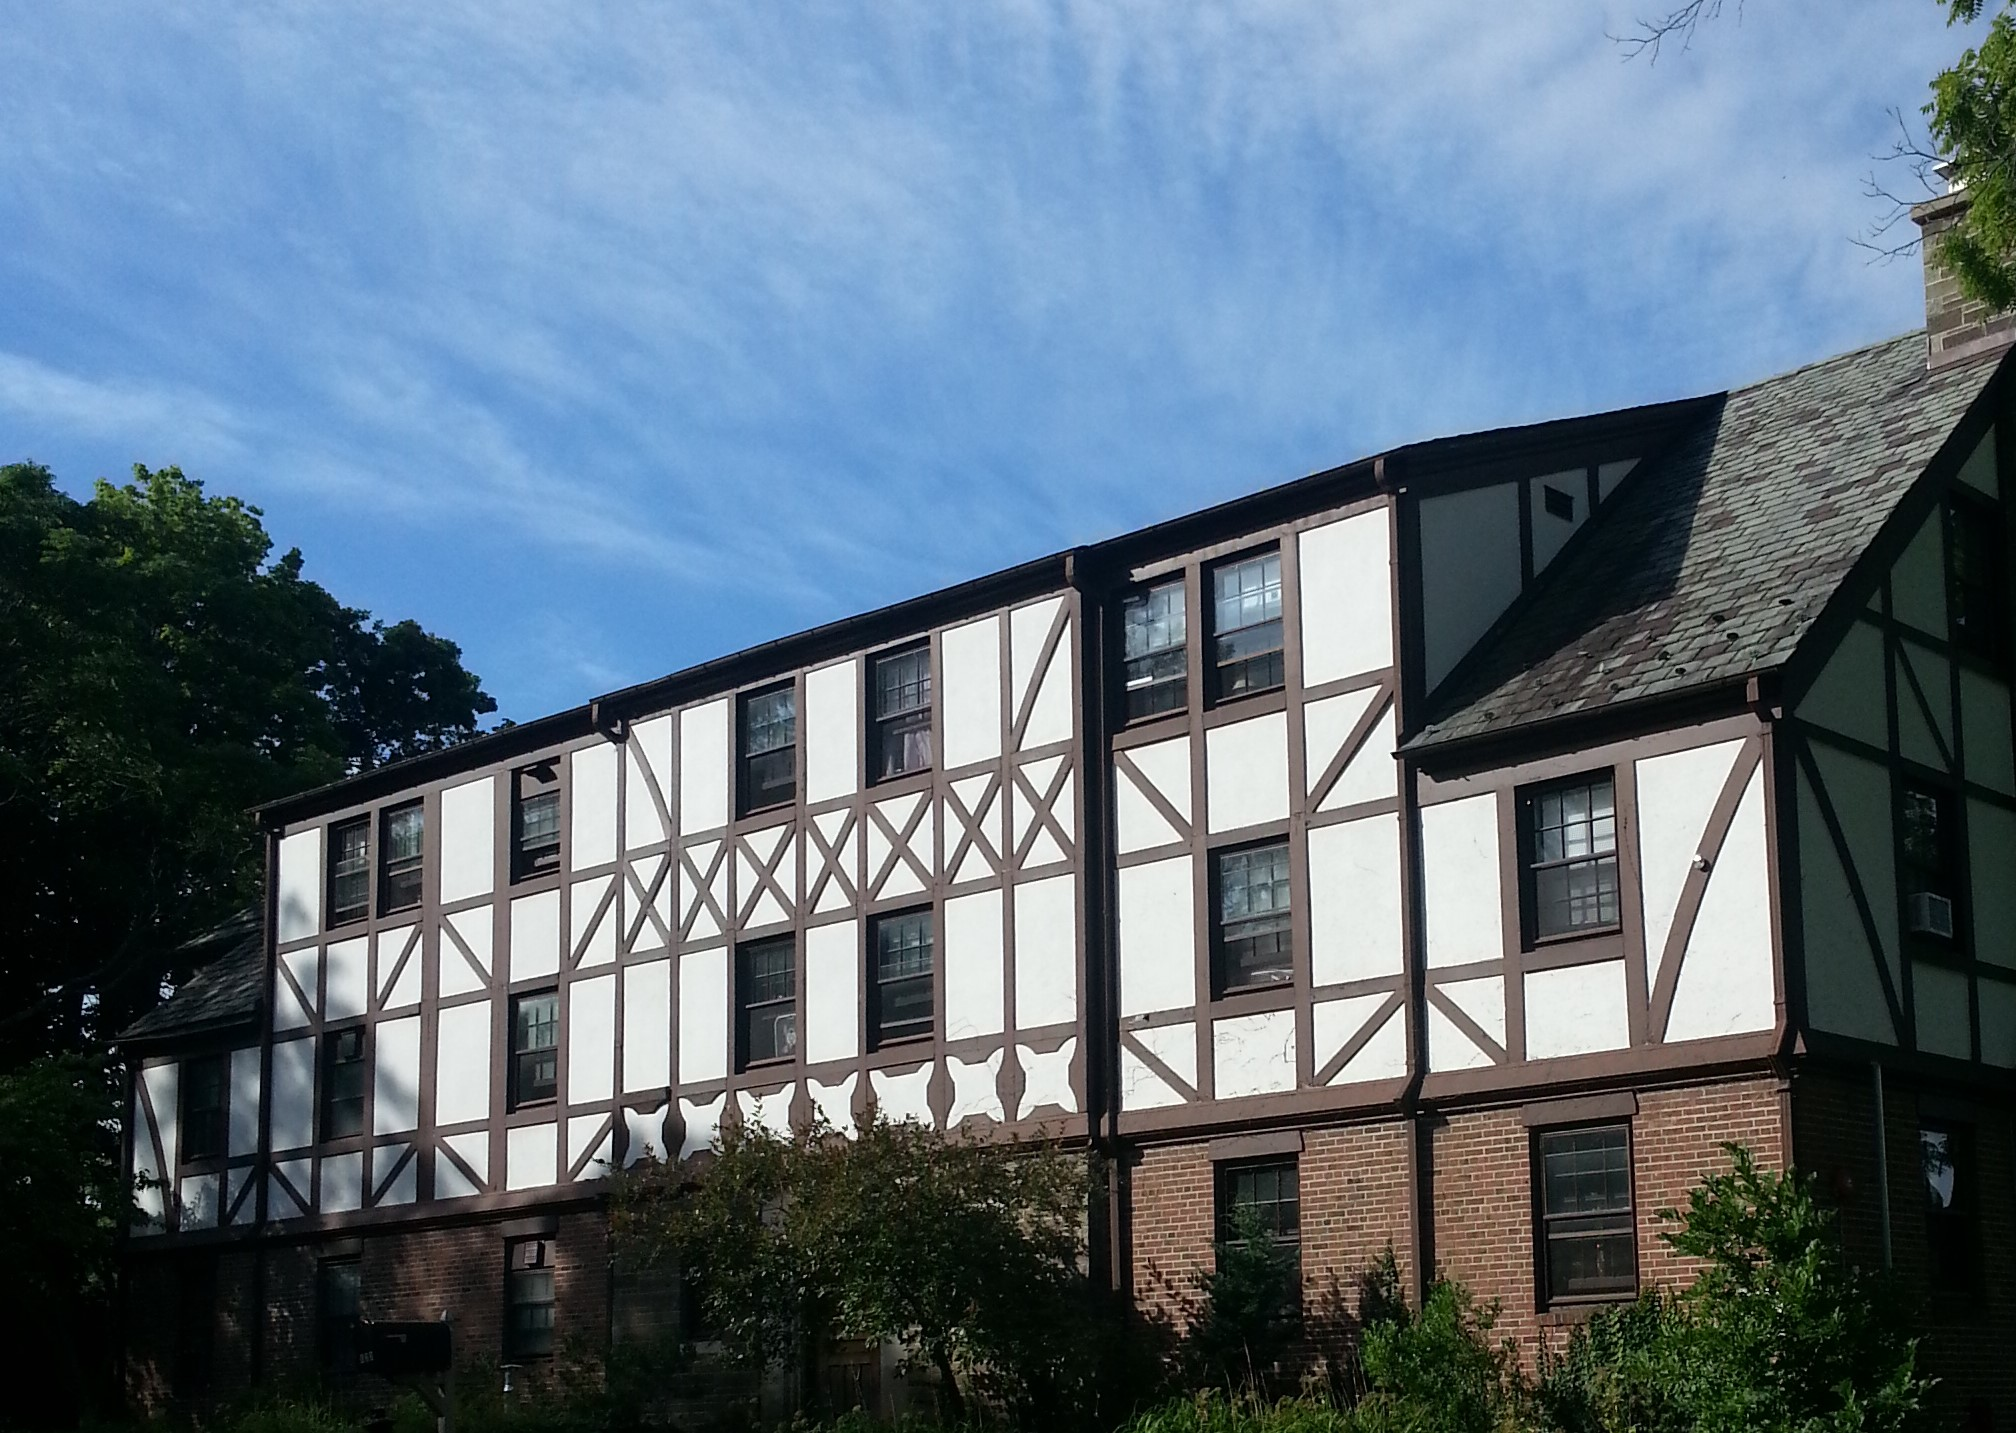
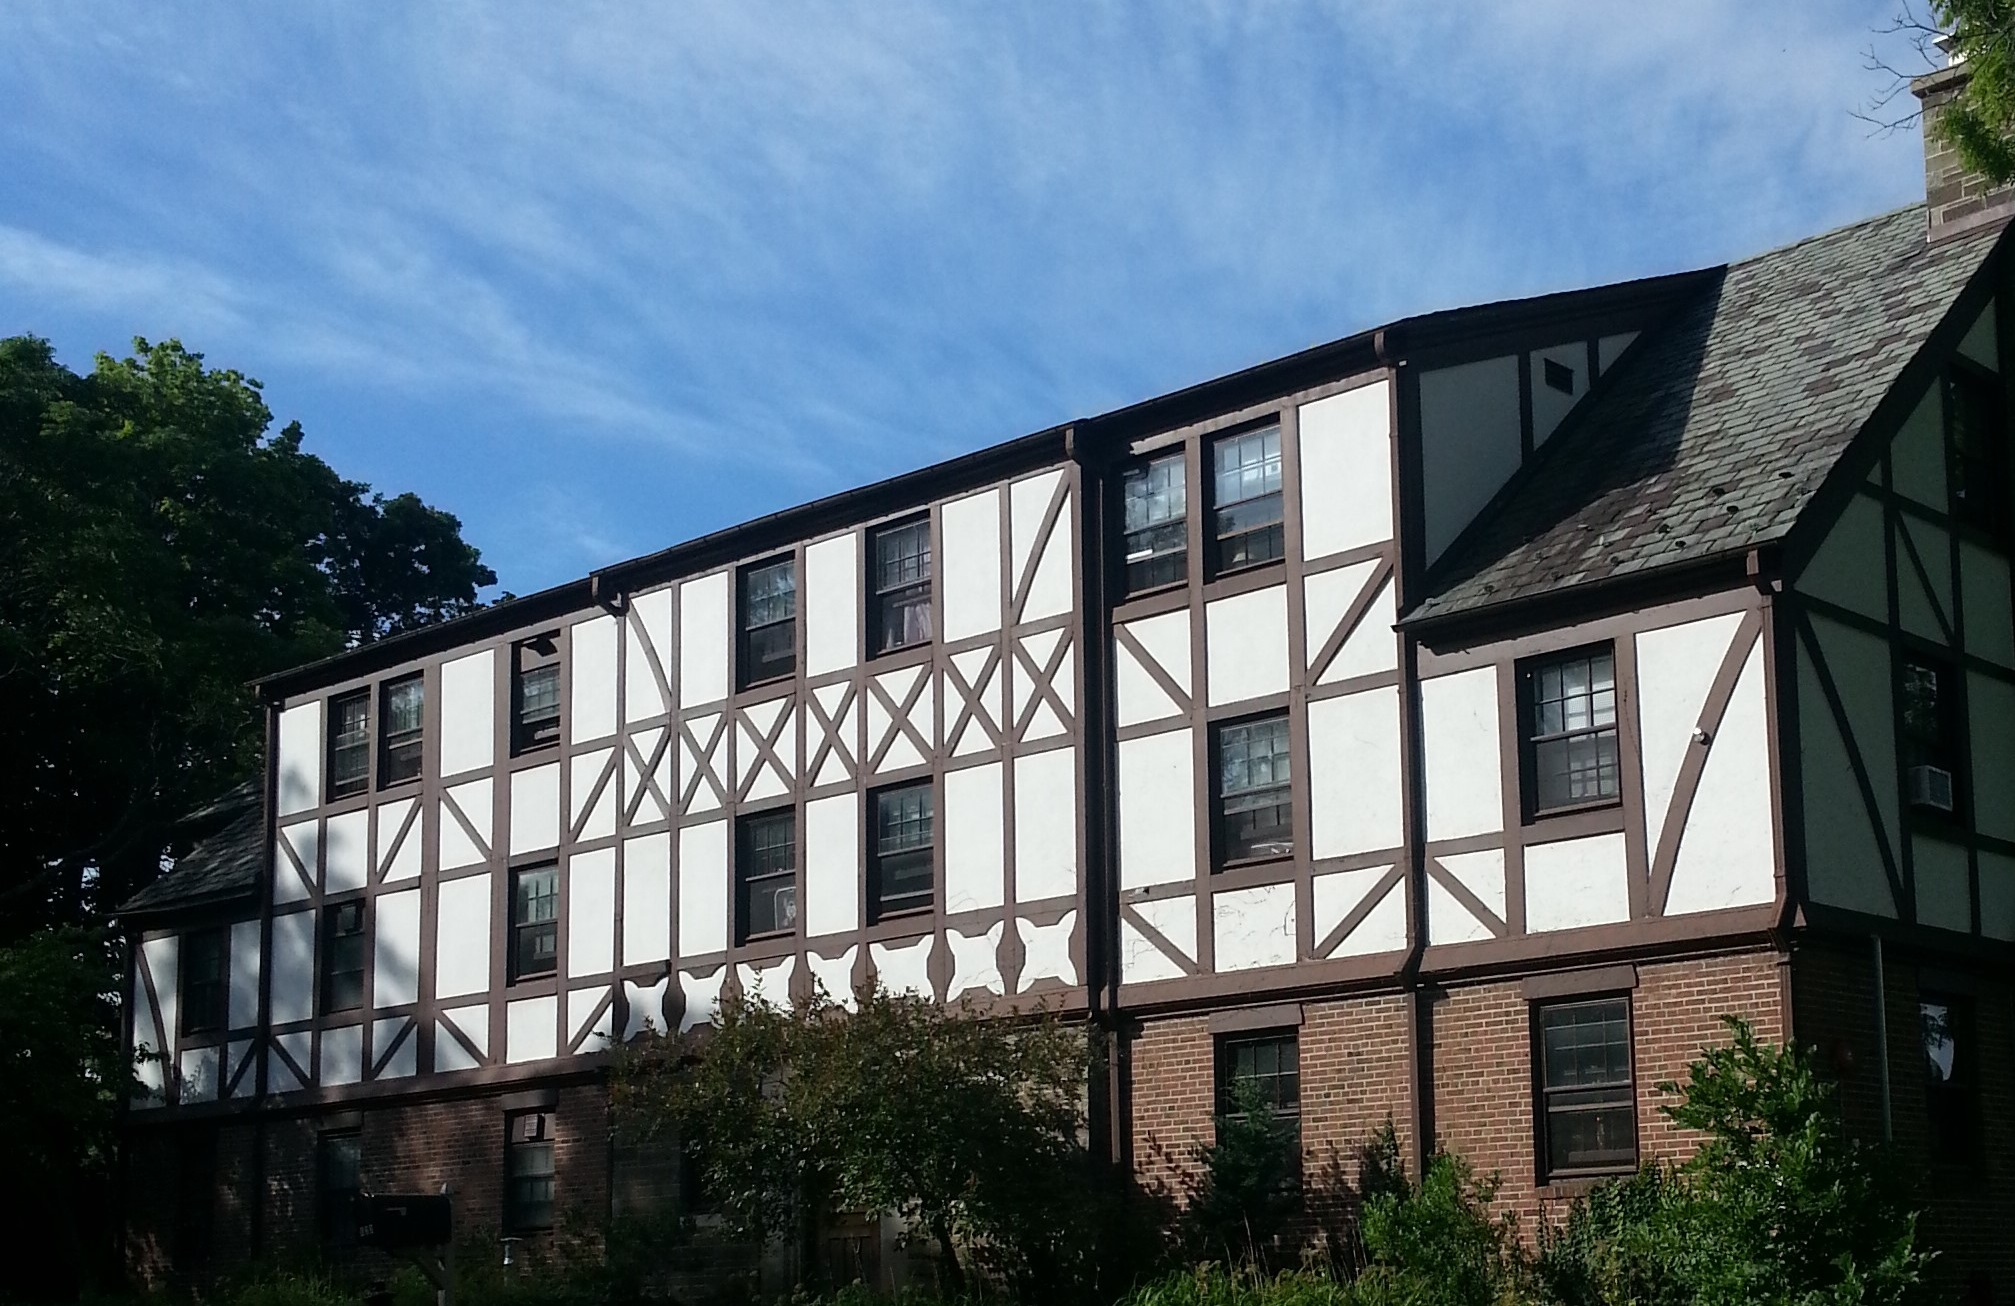
added mosey info and updated gallery

diff --git a/index.html b/index.html
@@ -61,9 +61,9 @@
 
     <header class="bg-primary text-white">
       <div class="container text-center" id="header-container">
-        <h1 style= "top: -150px; position: relative">Von Cramm Cooperative</h1>
-        <p class="lead" style= "top: -150px; position: relative">Established 1953 </p>
-        <p class="lead" style= "top: -150px; position: relative">Voncrammcoop@cornell.edu </p>
+        <h1>Von Cramm Cooperative</h1>
+        <p class="lead" style= "position: relative">Established 1953 </p>
+        <p class="lead" style= "position: relative">Voncrammcoop@cornell.edu </p>
       </div>
     </header>
 
@@ -76,7 +76,7 @@
 
           <div class = "slideshow">
             <div class = "slideshowholder">
-              <img id ="slideshowimg" src="images/vc1.jpg" style = "width:100%; max-height:500px" alt = "cramm2019"/>
+              <img id ="slideshowimg" src="images/vc1.jpg" style = "width:100%; max-height:470px" alt = "cramm2019"/>
             </div>
             <div class = "ssbuttonholder">
               <div id = "ssnext" class = "slideshownext">
@@ -232,12 +232,47 @@
             <h2>Join</h2>
             <hr>
             <p class="lead">
-            Membership to reside in Von Cramm is <b>open to all full-time Cornell students, undergraduate and graduate.</b><br/><br/>
-            Our house consists of 19 singles, 6 doubles and 1 triple.
+              Membership to reside in Von Cramm is open to all full-time Cornell students, including undergraduate, graduate, international and transfer students. 
+              <b>Von Cramm welcomes and strives to provide safe spaces for people of color, queer
+              individuals, students with physical or mental disabilities, students with financial
+              burdens, and students with other marginalized identities.</b>
+              <br/><br/>
+            
+              Our house consists of 19 singles, 6 doubles and 1 triple.
               <h4>Semesterly Housing Rates</h4><ul>
-              <li><b>Single:</b> $2400</li>
-              <li><b>Double:</b> $2100</li>
-              <li><b>Triple:</b>$1800</li></ul><br/><br/>
+              <li><b>Single:</b> $2400 (~$600/month)</li>
+              <li><b>Double:</b> $2100 (~$525/month)</li>
+              <li><b>Triple:</b>$1800 (~$450/month)</li></ul><br/><br/>
+
+
+              <h4 id="mosey"><b>Mosey Events (Fall 2019)</b></h4>
+              <b>Open House</b>
+              <ul>
+                <li>Sunday, November 10</li> 
+                <li>1:00 PM - 5:00 PM</li>
+              </ul>
+              <b>Shower Concert</b>
+              <ul>
+                <li>Tuesday, November 12</li> 
+                <li>8:00 PM - 10:00 PM</li>
+              </ul>
+              <b>Fireside Chats</b>
+              <ul>
+                <li>Friday, November 15</li> 
+                <li>8:00 PM - 10:00 PM</li>
+              </ul>
+              <b>Chopped</b>
+              <ul>
+                <li>Sunday, November 17</li> 
+                <li>11:00 AM - 1:00 PM</li>
+              </ul>
+              <b>Spuds & Suds</b>
+              <ul>
+                <li>Monday, November 18</li> 
+                <li>7:00 PM - 9:00 PM</li>
+              </ul>
+
+              <br/><br/>
 
               <h4>Selection</h4>
               Admission to reside in Von Cramm for the following academic year is done via random selection. In order to enter the selection system for a room in VonCramm, all prospective Crammies must submit a questionnaire or have an oral interview with the current president and go through Mosey. Mosey consists of at least:<ul>
@@ -247,12 +282,12 @@
 
               <h4>Meal Plan</h4>
                 The Von Cramm meal plan is an in house, which means that all of the meal plan is managed and prepared by members of the meal plan. All house members are required to be a part of the meal plan, but the meal plan is open to members of the Cornell community. Those in the house are required to cook on the meal plan unless otherwise stated in the constitution. Members of the meal plan outside the house have the option of cooking or paying an additional fee to not cook on the meal plan. <br/>
-                <b>Semesterly Rate</b><ul>
+              </br>
+                <h5>Semesterly Meal Plan Rate</h5>
                 <li><b>Cooking:</b> $510 </li>
                 <li><b>Not Cooking:</b> $510 + Additional fee* </li>
-                 <span style="padding-left:2em">*Additional fee ≈ equal to minimum wage x 3.5 hours/week x the number of weeks of </span>
-                 <span style="padding-left:2em">the semester’s meal plan </span></ul>
-              <b>Learn more about the Meal Plan from our constitution:</b>
+                <span>*Additional fee ≈ equal to minimum wage x 3.5 hours/week x the number of weeks of the semester’s meal plan</span>
+                <b>Learn more about the Meal Plan from our constitution:</b>
                 <a href="https://github.com/Voncramm/VC-Constitution/wiki/IV.-Meal-Plan"> Meal Plan </a> <br/><br/>
 
               <br/><br/>

diff --git a/gallery.html b/gallery.html
@@ -58,19 +58,19 @@
     <section id = "gallery">  
         <div class = "column">
             <img src = "images/voncramm19.jpg" id="img1">
-            <img src = "images/voncramm18v.JPG" id="img2">
+            <img src = "images/voncramm29.jpg" id="img2">
             <img src = "images/voncramm22.jpg" id="img3">
             <img src = "images/voncramm23.jpg" id="img4">
         </div>
         <div class = "column">
-            <img src = "images/voncramm9v.JPG" id="img5">
-            <img src = "images/voncramm21.jpg" id="img6">
+            <img src = "images/voncramm34.JPG" id="img5">
+            <img src = "images/voncramm30.jpg" id="img6">
             <img src = "images/voncramm27.jpg" id="img7">
-            <img src = "images/voncramm20.jpg" id="img8">
+            <img src = "images/voncramm35.jpg" id="img8">
         </div>
         <div class = "column">
             <img src = "images/voncramm24.jpg" id="img9">
-            <img src = "images/voncramm25.jpg" id="img10">
+            <img src = "images/voncramm20.jpg" id="img10">
             <img src = "images/voncramm28.jpg" id="img11">
             <img src = "images/voncramm18.jpg" id="img12">
         </div>

diff --git a/css/scrolling-nav.css b/css/scrolling-nav.css
@@ -11,6 +11,7 @@ header {
   background-repeat: no-repeat;
   background-size: cover;
   z-index: -1;
+  height: 500px;
 }
 
 img {
@@ -61,6 +62,11 @@ section {
   padding-top: 20px;
 }
 
+#header-container {
+  background-color: black;
+  opacity: 0.8;
+}
+
 @media (min-width: 850px) {
   header {
     padding: 300px 0 100px;
@@ -106,11 +112,6 @@ section {
   .lead {
     margin-top: 20px;
   }
-  
-  #header-container {
-    background-color: black;
-    opacity: 0.8;
-  }
 
   /* accordian */
   .mb-0 h5 {
@@ -122,9 +123,11 @@ section {
     border: 15px black solid;
     width: 100%;
   }
+
   .ssbuttonholder {
     position: relative;
   }
+
   .slideshownext {
     text-align: center;
     padding-bottom: 10px;
@@ -133,6 +136,7 @@ section {
     cursor: pointer;
     margin-left: 10px;
   }
+  
   .slideshowback {
     cursor: pointer;
   }
@@ -147,3 +151,4 @@ section {
   }
   /* form validation */
 }
+

diff --git a/js/slideshow.js b/js/slideshow.js
@@ -1,6 +1,6 @@
 $(document).ready(function() {
   var images = [
-    "images/vc3.jpg", 
+    "images/voncramm31.jpg", 
     "images/vc1.jpg",
     "images/vc2.JPG",
     "images/vc4.jpg", 
